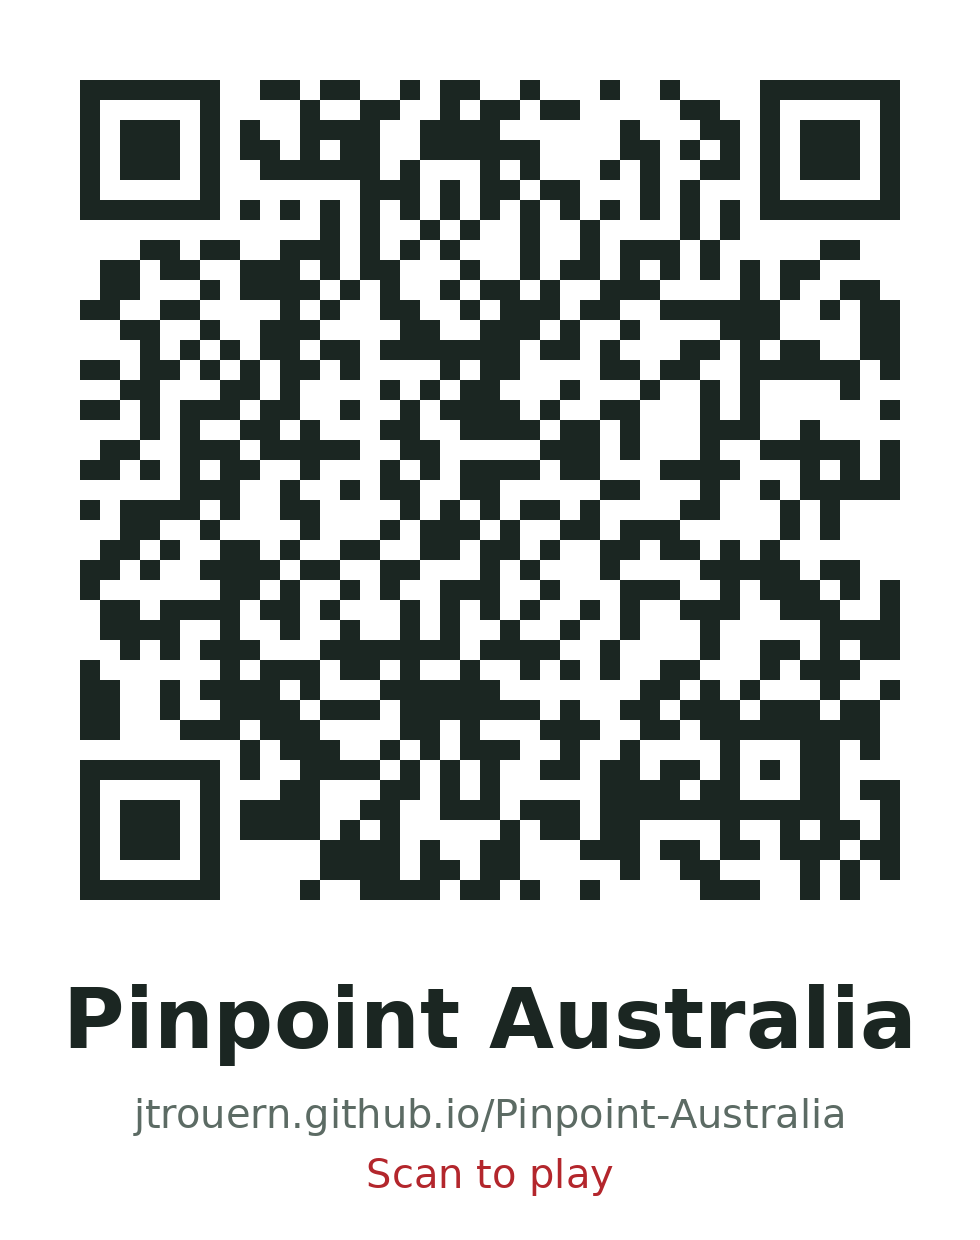
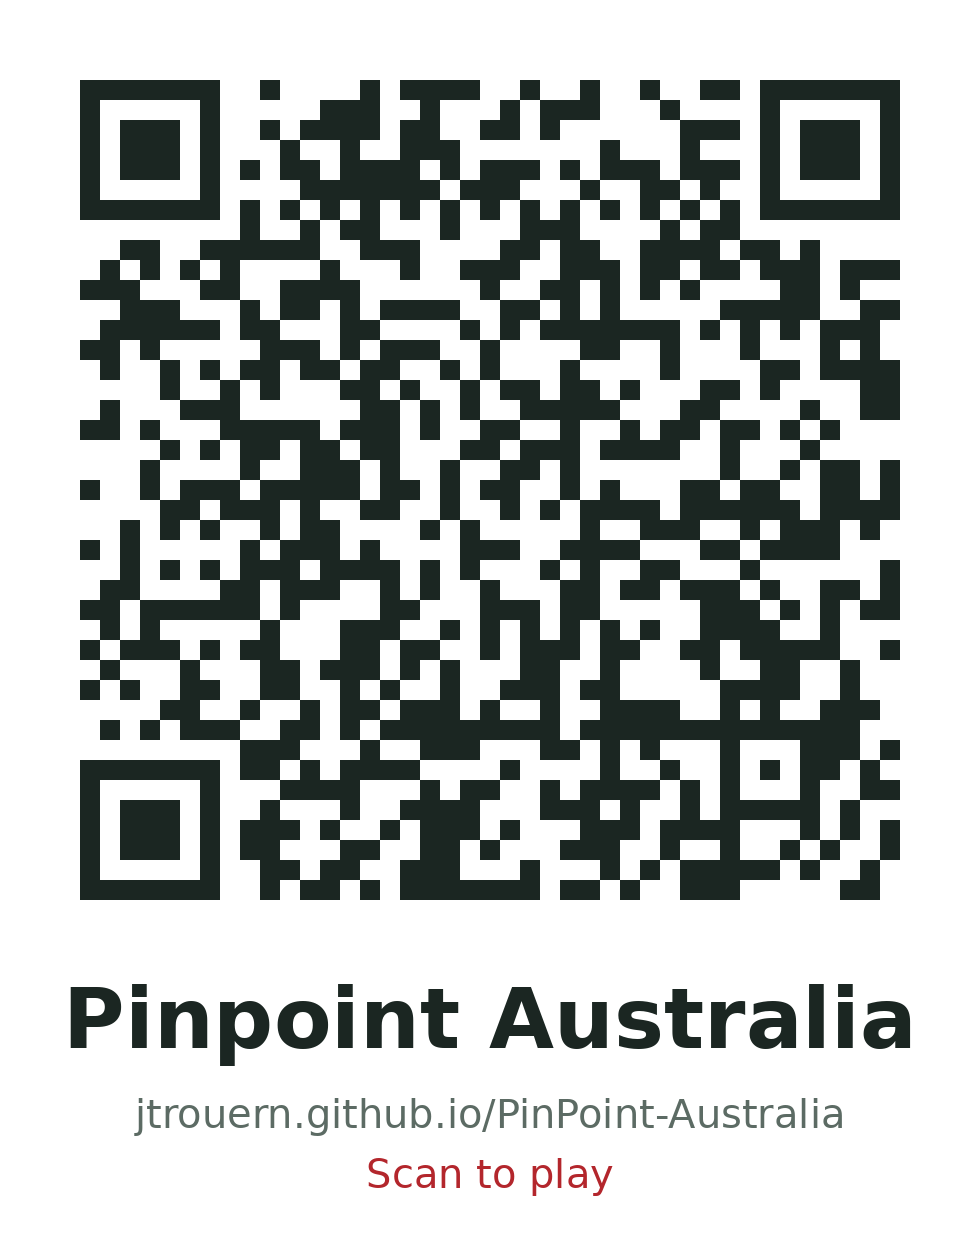
Match QR code and README link to repo name casing
Claude-Session: https://claude.ai/code/session_01SrW4CfnWTTacnwNpR5ir1H

Changed region(s): [[0.0612, 0.0613, 0.9184, 0.7355], [0.1224, 0.8887, 0.8571, 0.9194]]

diff --git a/README.md b/README.md
@@ -2,7 +2,7 @@
 
 A pinpoint map quiz and field guide to Australia's towns and natural features: cities, mountains, ranges, deserts, lakes, rivers, islands, reefs, coasts and parks.
 
-**Play:** https://jtrouern.github.io/Pinpoint-Australia/
+**Play:** https://jtrouern.github.io/PinPoint-Australia/
 
 ![QR code to play Pinpoint Australia](qr/pinpoint-australia-qr.png)
 
